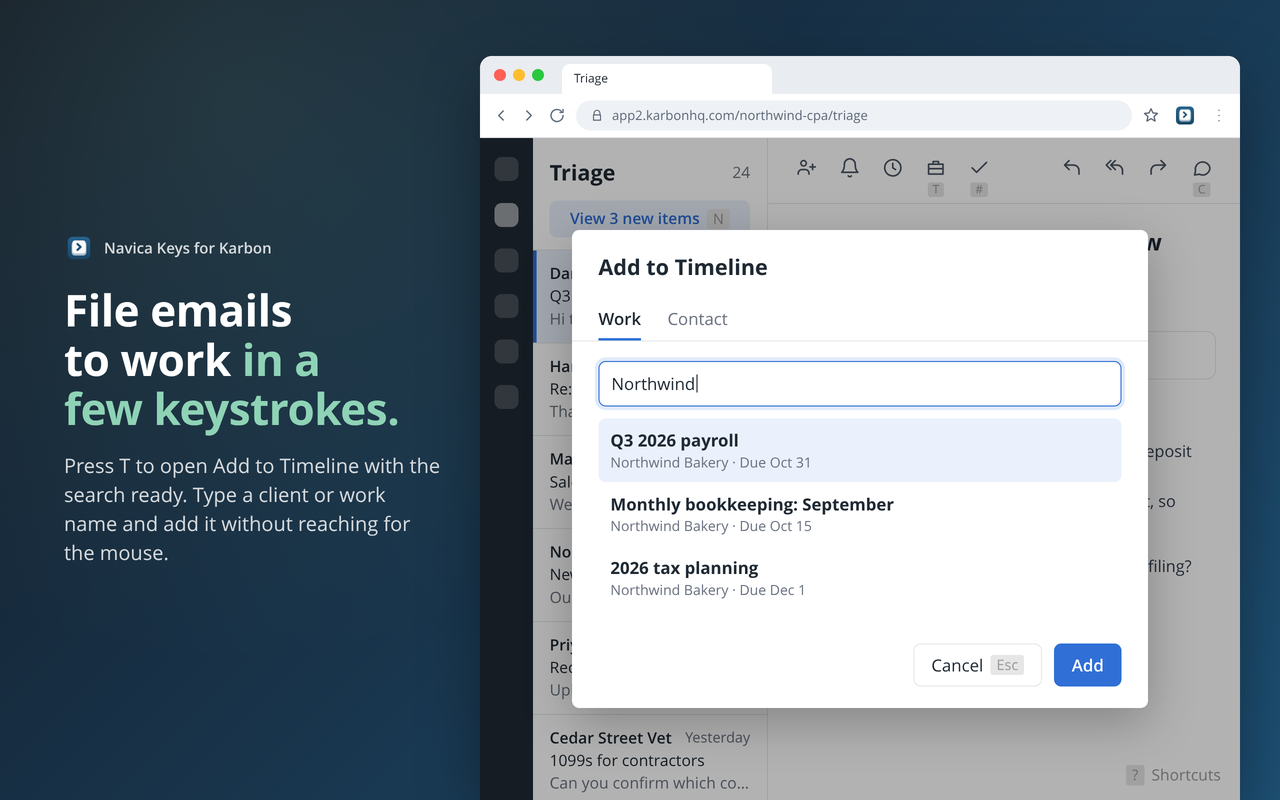
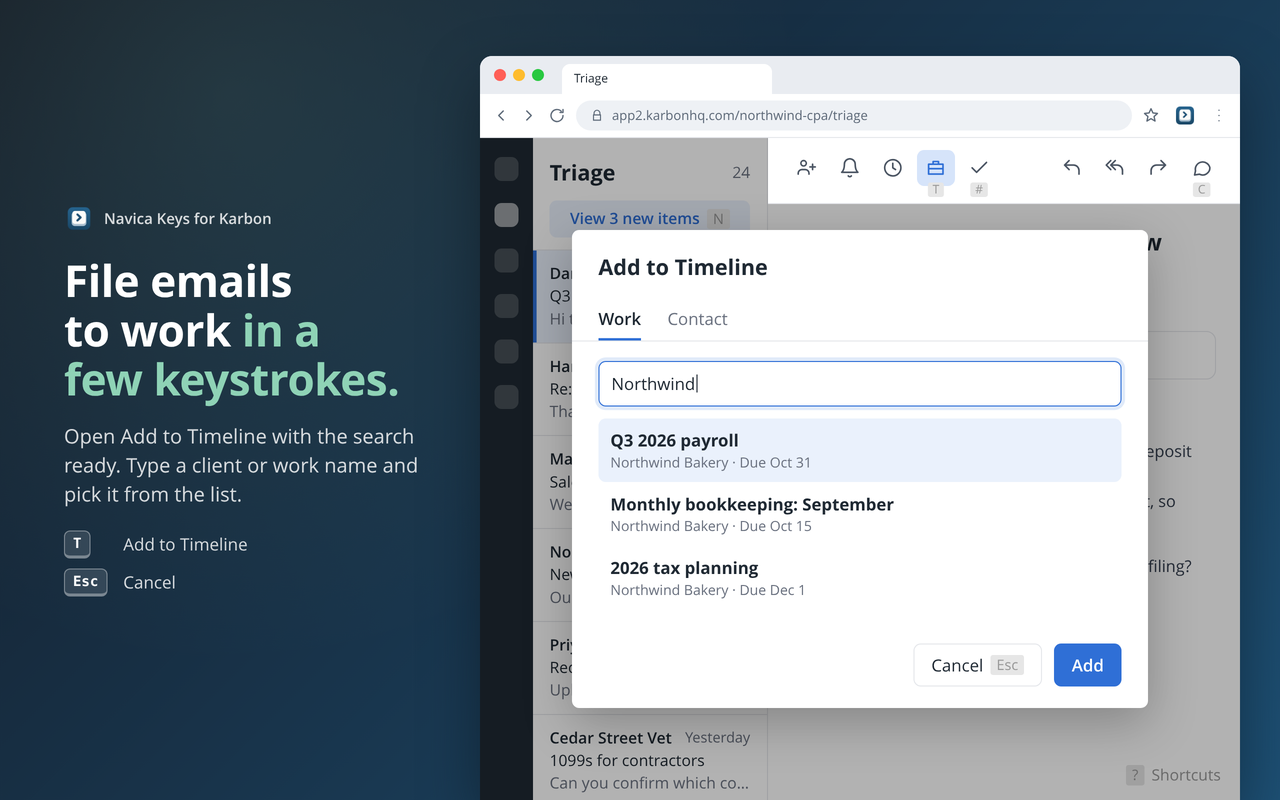
Show single-key chips in the timeline screenshot
Keep Karbon's toolbar above the dialog backdrop with the briefcase shown
as pressed, so its T chip stays visible, and list T and Esc as keycaps.

Changed region(s): [[0.0312, 0.25, 0.3438, 0.75], [0.5938, 0.1562, 0.9688, 0.2812]]

diff --git a/store/screenshots/shots.css b/store/screenshots/shots.css
@@ -55,6 +55,8 @@ body { position:relative; font:16px/1.45 system-ui, -apple-system, "Segoe UI", s
 .read { position:relative; overflow:hidden; }
 .etools { display:flex; align-items:center; gap:4px; padding:10px 16px 14px; border-bottom:1px solid var(--line); }
 .etools .gap { flex:1; }
+.etools:has(.pressed) { position:relative; z-index:2; background:var(--page); }
+.btn.pressed { background:#d6e4fa; } .btn.pressed svg { stroke:var(--accent); }
 .btn { position:relative; width:32px; height:30px; display:grid; place-items:center; border-radius:6px; }
 .btn svg { width:18px; height:18px; fill:none; stroke:#4b5563; stroke-width:1.8; stroke-linecap:round; stroke-linejoin:round; }
 .mail { padding:18px 20px; }
@@ -75,7 +77,7 @@ body { position:relative; font:16px/1.45 system-ui, -apple-system, "Segoe UI", s
 .ktk-toast { position:absolute !important; }
 
 /* Add to Timeline dialog (shot 3) */
-.scrim { position:absolute; inset:0; background:rgba(0,0,0,.3); display:grid; place-items:center; }
+.scrim { position:absolute; inset:0; z-index:1; background:rgba(0,0,0,.3); display:grid; place-items:center; }
 .dialog { width:480px; background:#fff; border-radius:6px; box-shadow:0 12px 40px rgba(0,0,0,.25); font-size:14px; }
 .dialog h3 { margin:0; padding:18px 22px 12px; font-size:18px; }
 .dtabs { display:flex; gap:22px; padding:0 22px; border-bottom:1px solid var(--line); }

diff --git a/store/screenshots/frame.js b/store/screenshots/frame.js
@@ -39,7 +39,7 @@ const EMAILS = [
 ];
 
 function triage(s) {
-  const btn = (id, icon) => `<span class="btn">${svg(I[icon])}${id && shows(s, id) ? chip(chipText(s, id), 'under') : ''}</span>`;
+  const btn = (id, icon) => `<span class="btn${id && id === s.pressed ? ' pressed' : ''}">${svg(I[icon])}${id && shows(s, id) ? chip(chipText(s, id), 'under') : ''}</span>`;
   const rows = EMAILS.map(([who, when, sub, snip], i) =>
     `<div class="row${i === 0 ? ' on' : ''}"><div class="who"><b>${who}</b><span>${when}</span></div><div class="sub">${sub}</div><div class="snip">${snip}</div></div>`).join('');
   const week = shows(s, 'addToWeek') ? chip(chipText(s, 'addToWeek'), 'inline') : '';
@@ -94,6 +94,7 @@ async function build() {
     const d = b.dataset;
     const ids = (v) => (v || '').split(' ').filter(Boolean);
     const s = shotSettings(ids(d.on), ids(d.off));
+    s.pressed = d.pressed; // A toolbar button shown as just pressed: data-pressed="addToTimeline".
     const scene = d.scene === 'triage' ? triage(s) + (d.overlay === 'help' ? helpOverlay(s) : d.overlay === 'dialog' ? timelineDialog(s) : '') : '';
     const extra = b.innerHTML;
     b.innerHTML = `

diff --git a/store/screenshots/shot3-timeline.html b/store/screenshots/shot3-timeline.html
@@ -8,9 +8,12 @@
 <body>
 <div class="copy"><div class="eyebrow"><img src="../icons/icon128.png" alt="">Navica Keys for Karbon</div>
   <h1>File emails to work <mark>in a few keystrokes.</mark></h1>
-  <p>Press T to open Add to Timeline with the search ready. Type a client or work name and add it without reaching for the mouse.</p>
+  <p>Open Add to Timeline with the search ready. Type a client or work name and pick it from the list.</p>
+  <div class="keys">
+    <kbd>T</kbd><span>Add to Timeline</span><kbd>Esc</kbd><span>Cancel</span>
+  </div>
 </div>
-<div class="browser" data-tab="Triage" data-url="app2.karbonhq.com/northwind-cpa/triage" data-scene="triage" data-overlay="dialog" data-off="workTab contactTab dialogAdd"></div>
+<div class="browser" data-tab="Triage" data-url="app2.karbonhq.com/northwind-cpa/triage" data-scene="triage" data-overlay="dialog" data-pressed="addToTimeline" data-off="workTab contactTab dialogAdd"></div>
 <script src="../src/shared.js"></script>
 <script src="frame.js"></script>
 </body>
